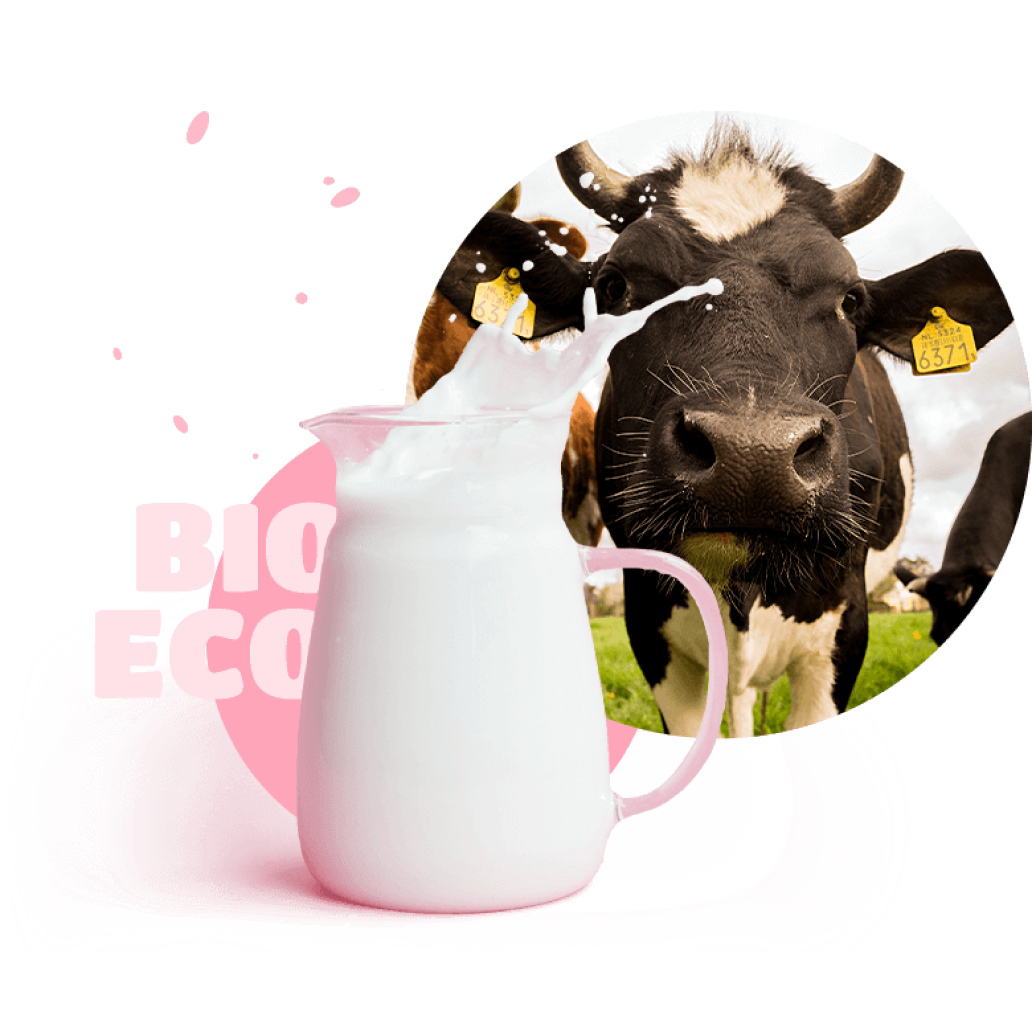
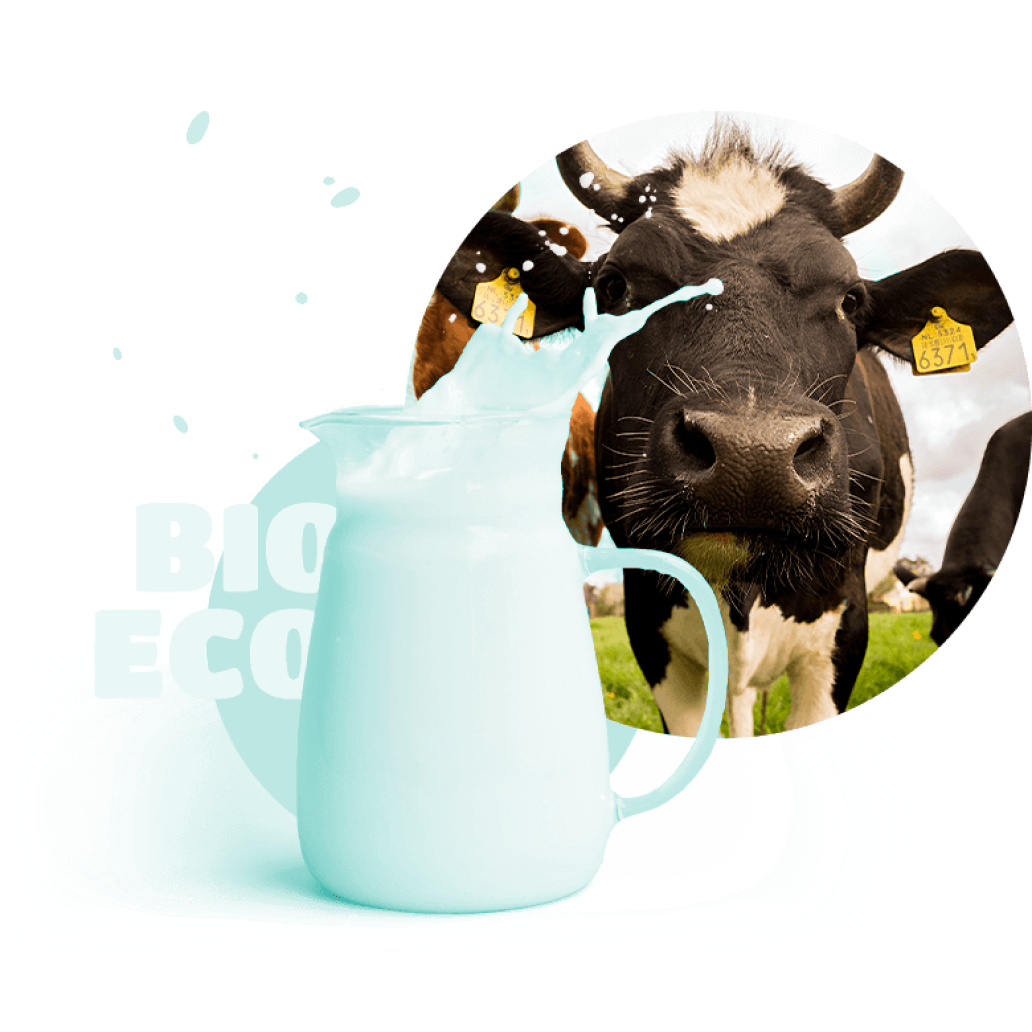
colors

diff --git a/src/sass/_variables.scss b/src/sass/_variables.scss
@@ -1,18 +1,18 @@
 $color_white: #ffffff;
 $color_black: #000000;
-$color_main_pink: #ffb8ca;
-$color_secondary_pink: #ffa5ba;
-$color_light_pink: #fff5f6;
-$color_social_icons_pink: #fea5bb;
-$color_red: #d41443;
-$color_dark_red: #fea5bb;
+$color_main_pink: #b9fdef;
+$color_secondary_pink: #84c5b8;
+$color_light_pink: #f5fffe;
+$color_social_icons_pink: #a5fedc;
+$color_red: #17ad8d;
+$color_dark_red: #a5feeb;
 $color_yellow: #f0d1a5;
 $color_green: #c2e297;
 $color_light_grey: #fafafa;
 $color_grey: #d9d9d9;
 $color_button-grey: #ecebeb;
 $color_brown: #907e82;
-$color_side_menu: #E17992;
+$color_side_menu: #79e1b9;
 $font_dm: 'DM Sans', sans-serif;
 $font_titan: 'Titan One', sans-serif;
 $mobile_s: 320px;

diff --git a/src/sass/_howitsmade_data.scss b/src/sass/_howitsmade_data.scss
@@ -294,7 +294,7 @@
   z-index: 99;
   border: none;
   outline: none;
-  background-color: rgba(255, 184, 202, 0.9);
+  background-color: rgba(139, 211, 193, 0.9);
   padding: 10px;
   border-radius: 50%;
   transition: all 250ms $cubic;

diff --git a/README.md b/README.md
@@ -1,93 +1,1 @@
-npm# parcel-project-template
-
-## Developing
-
-### Prerequisites
-
-На компьютере должен быть установлен [Node.js](https://nodejs.org/en/).
-
-Для корректной работы SASS-компилятора и других инструментов, необходимо один
-раз глобально поставить дополнительные пакеты, выполнив в терминале следующие
-команды. Пользователям MacOS ничего делать не нужно.
-
-Пользователям **Windows**, в режиме администратора.
-[Как запусттить Powershell](https://youtu.be/p2tFnxcymwk) в режиме
-администратора.
-
-```shell
-npm install --global --production windows-build-tools
-```
-
-Вот как выглядит процесс успешной установки для пользователей **Windows**.
-
-![Установка windows-build-tools](https://user-images.githubusercontent.com/1426799/45007904-bde9f280-afb4-11e8-8a35-c77dffaffa2a.gif)
-
-Пользователям **Linux**.
-
-```shell
-sudo apt-get install gcc g++ make
-```
-
-### Setting up Dev
-
-Один раз на проект установить все зависимости.
-
-```shell
-npm install
-```
-
-И запустить режим разработки.
-
-```shell
-npm run dev
-```
-
-Во вкладке браузера перейти по адресу
-[http://localhost:1234](http://localhost:1234).
-
-### Building
-
-Для того чтобы создать оптимизированные файлы для хостинга, необходимо выполнить
-следующую команду. В корне проекта появится папка `build` со всеми
-оптимизированными ресурсами.
-
-```shell
-npm run build
-```
-
-### Deploying / Publishing
-
-Сборка может автоматически деплоить билд на GitHub Pages удаленного (remote)
-репозитория. Для этого необходимо в файле `package.json` отредактировать поле
-`homepage`, заменив имя пользователя и репозитория на свои.
-
-```json
-"homepage": "https://имя_пользователя.github.io/имя_репозитория"
-```
-
-Также необходимо отредактировать скрипт "predeploy".
-
-```json
-"predeploy": "npm run build -- --public-url='/имя_репозитория/'"
-```
-
-После чего в терминале выполнить следующую команду.
-
-```shell
-npm run deploy
-```
-
-Если нет ошибок в коде и свойство `homepage` указано верно, запустится сборка
-проекта в продакшен, после чего содержимое папки `build` будет помещено в ветку
-`gh-pages` на удаленном (remote) репозитории. Через какое-то время живую
-страницу можно будет посмотреть по адресу указанному в отредактированном
-свойстве `homepage`.
-
-## Configuration
-
-- Все паршалы файлов стилей должны лежать в папке `src/sass` и импортироваться в
-  `src/sass/main.scss`
-- Изображения добавляйте в папку `src/images`, заранее оптимизировав их. Сборщик
-  просто копирует используемые изображения чтобы не нагружать вашу систему
-  оптимизацией десятков картинок, так как на слабых компьютерах это повесит
-  систему.
+The Ice Cream Project. Created by the GO IT students.
